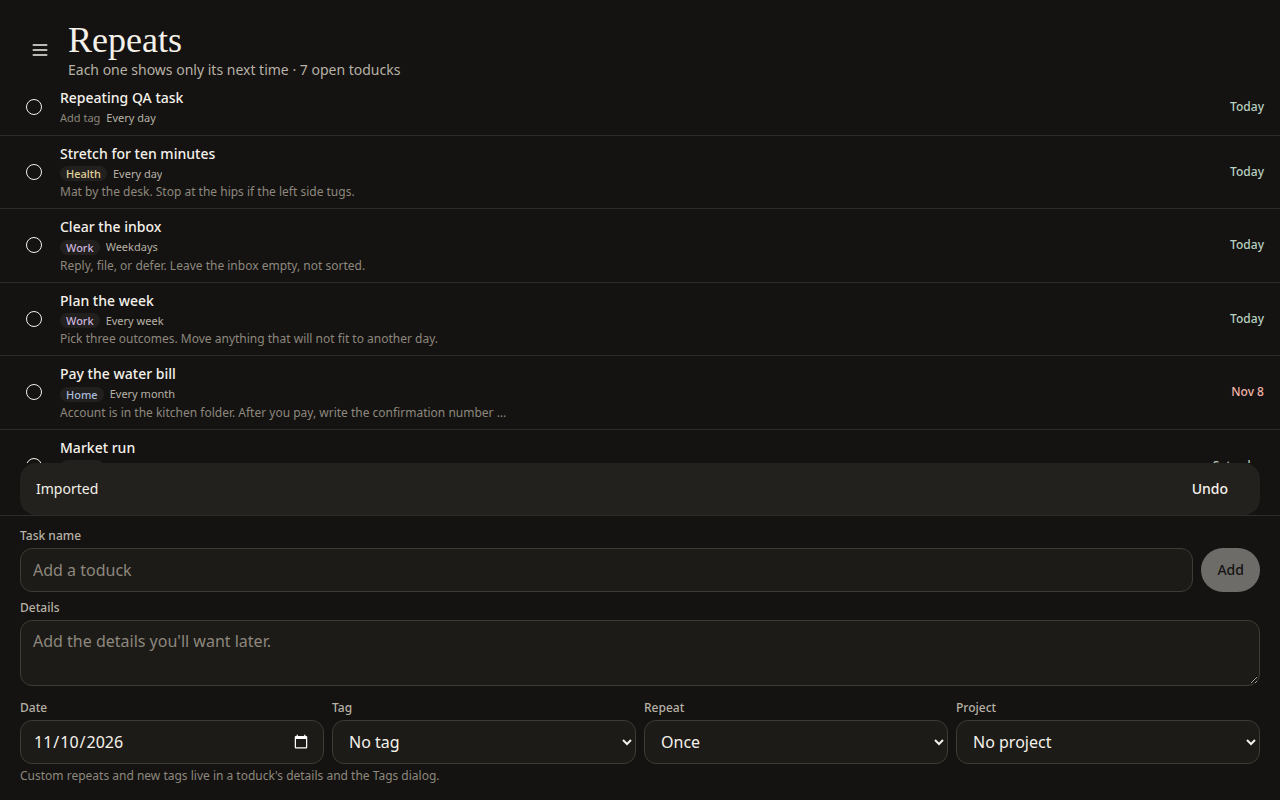
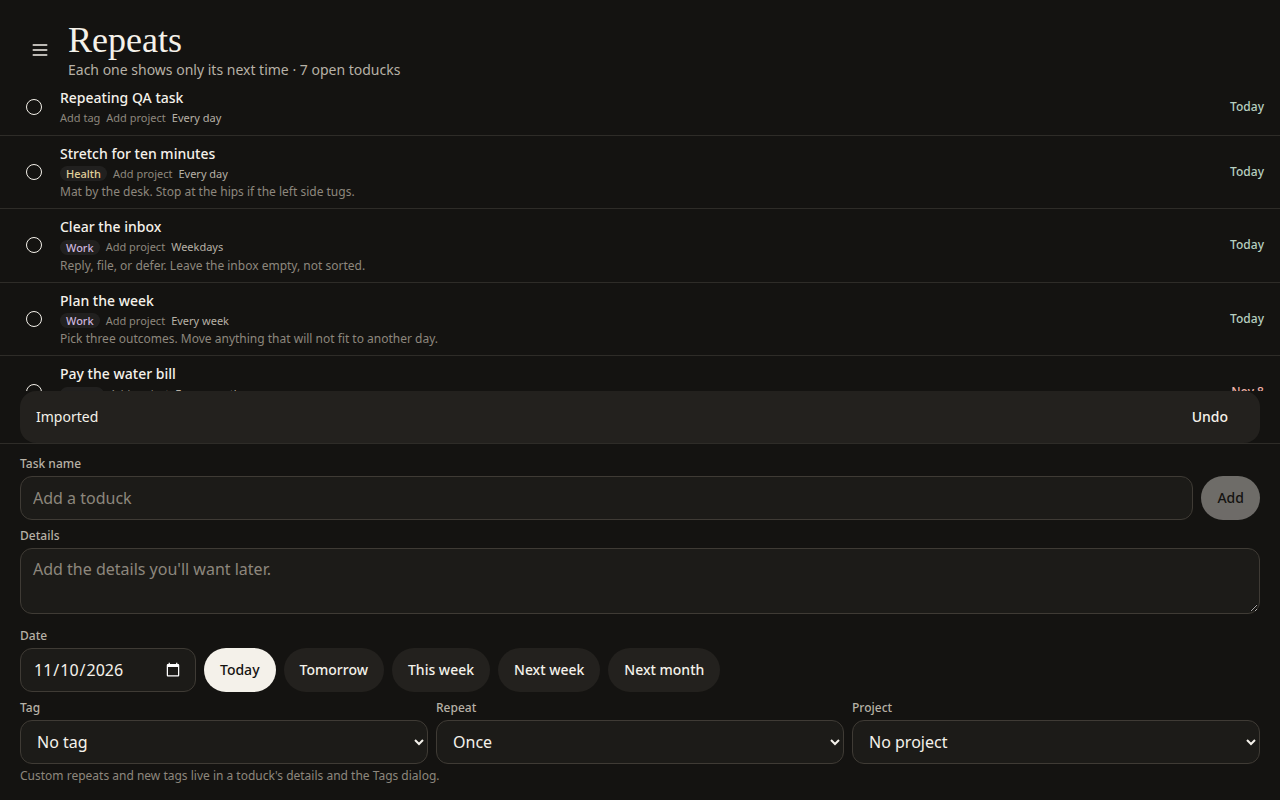
feat(web): quick date presets in the composer; repeat and project editable from the row
The composer date box now sits beside one-tap presets: Today, Tomorrow,
This week (this Sunday), Next week (next Sunday), and Next month (same
day next month, clamped). On a task row, repeat and project join date
and tag as inline controls, so all four can be changed without opening
the task.

diff --git a/src/components/toduck/screen.tsx b/src/components/toduck/screen.tsx
@@ -2,7 +2,7 @@ import { useEffect, useState } from "react";
 import { ChevronLeft, ChevronRight, Menu, Settings, X } from "lucide-react";
 import { Detail } from "@/components/toduck/detail";
 import { CategoriesDialog, ProjectsDialog, SettingsDialog } from "@/components/toduck/settings";
-import { Button, CategoryPicker, Chip, Modal } from "@/components/toduck/ui";
+import { Button, CategoryPicker, Chip, Modal, ProjectPicker, RepeatChooser } from "@/components/toduck/ui";
 import {
   activeCategories,
   activeProjects,
@@ -12,8 +12,10 @@ import {
   categoryName,
   countFor,
   dateHorizon,
+  DATE_PRESETS,
   formatWhen,
   monthDay,
+  presetDate,
   projectName,
   repeatLabel,
   requireDate,
@@ -591,11 +593,14 @@ function TaskRow({
   const toggleTask = useToduck((s) => s.toggleTask);
   const updateTask = useToduck((s) => s.updateTask);
   const addCategory = useToduck((s) => s.addCategory);
+  const addProject = useToduck((s) => s.addProject);
   const allCategories = useToduck((s) => s.categories);
+  const allProjects = useToduck((s) => s.projects);
   const [categoryOpen, setCategoryOpen] = useState(false);
+  const [projectOpen, setProjectOpen] = useState(false);
+  const [repeatOpen, setRepeatOpen] = useState(false);
   const when = requireDate(shownDate(task, today), today);
   const horizon = dateHorizon(when, today);
-  const repeat = task.repeat.kind === "none" ? null : repeatLabel(task.repeat, "short");
 
   return (
     <li className="border-b border-line px-3 md:px-4">
@@ -629,8 +634,28 @@ function TaskRow({
             >
               {category ?? "Add tag"}
             </button>
-            {project ? <span className="truncate text-[11px] text-muted">{project}</span> : null}
-            {repeat ? <span className="truncate text-[11px] text-muted">{repeat}</span> : null}
+            <button
+              type="button"
+              className={project ? "max-w-[8rem] truncate text-[11px] text-muted" : "shrink-0 text-[11px] text-faint"}
+              aria-label={`Change project for ${task.title}`}
+              onClick={(event) => {
+                event.stopPropagation();
+                setProjectOpen(true);
+              }}
+            >
+              {project ?? "Add project"}
+            </button>
+            <button
+              type="button"
+              className="shrink-0 text-[11px] text-muted"
+              aria-label={`Change repeat for ${task.title}`}
+              onClick={(event) => {
+                event.stopPropagation();
+                setRepeatOpen(true);
+              }}
+            >
+              {repeatLabel(task.repeat, "short")}
+            </button>
           </span>
           {!compact && notePreviewSafe(task.notes) ? (
             <span className="mt-0.5 hidden truncate text-xs text-faint md:block">{notePreviewSafe(task.notes)}</span>
@@ -656,6 +681,31 @@ function TaskRow({
           />
         </div>
       </div>
+      {projectOpen ? (
+        <Modal open onOpenChange={setProjectOpen} title="Project" description={task.title}>
+          <ProjectPicker
+            projectId={task.projectId}
+            projects={activeProjects(allProjects)}
+            onChange={(id) => {
+              updateTask(task.id, { projectId: id });
+              setProjectOpen(false);
+            }}
+            onCreate={(name) => {
+              const id = addProject(name);
+              if (id) updateTask(task.id, { projectId: id });
+              setProjectOpen(false);
+            }}
+          />
+        </Modal>
+      ) : null}
+      {repeatOpen ? (
+        <Modal open onOpenChange={setRepeatOpen} title="Repeat" description={task.title}>
+          <RepeatChooser repeat={task.repeat} date={task.date} onChange={(next) => updateTask(task.id, { repeat: next })} />
+          <Button className="mt-3" variant="quiet" onClick={() => setRepeatOpen(false)}>
+            Done
+          </Button>
+        </Modal>
+      ) : null}
       {categoryOpen ? (
         <Modal open onOpenChange={setCategoryOpen} title="Tag" description={task.title}>
           <CategoryPicker
@@ -803,8 +853,8 @@ function Composer({
           placeholder="Add the details you'll want later."
         />
       </div>
-      <div className="mt-2 grid grid-cols-2 gap-2 pb-1 lg:grid-cols-4">
-        <div>
+      <div className="mt-2 flex flex-wrap items-end gap-2">
+        <div className="w-44 shrink-0">
           <label className={labelClass} htmlFor="new-date">
             Date
           </label>
@@ -818,6 +868,18 @@ function Composer({
             }}
           />
         </div>
+        <div className="flex flex-wrap gap-2" role="group" aria-label="Quick dates">
+          {DATE_PRESETS.map((preset) => {
+            const target = presetDate(preset.id, today);
+            return (
+              <Chip key={preset.id} active={date === target} onClick={() => setDate(target)}>
+                {preset.label}
+              </Chip>
+            );
+          })}
+        </div>
+      </div>
+      <div className="mt-2 grid grid-cols-1 gap-2 pb-1 sm:grid-cols-3">
         <div>
           <label className={labelClass} htmlFor="new-tag">
             Tag

diff --git a/e2e/toduck.spec.ts b/e2e/toduck.spec.ts
@@ -218,6 +218,20 @@ test("row controls: one-click date picker, category picker, and repeat checkbox 
   await expect(dialog).toBeHidden();
   await expect(quickRow).toContainText("Home");
 
+  // The repeat can be changed from the row, without opening the details.
+  await quickRow.getByRole("button", { name: "Change repeat for Quick date task" }).click();
+  await dialog.getByRole("button", { name: "Weekdays" }).click();
+  await dialog.getByRole("button", { name: "Done", exact: true }).click();
+  await expect(dialog).toBeHidden();
+  await expect(quickRow).toContainText("Weekdays");
+
+  // A project can be created and assigned from the row too.
+  await quickRow.getByRole("button", { name: "Change project for Quick date task" }).click();
+  await dialog.getByLabel("New project").fill("Row Project");
+  await dialog.getByRole("button", { name: "Add", exact: true }).click();
+  await expect(dialog).toBeHidden();
+  await expect(quickRow).toContainText("Row Project");
+
   // Checking off a repeating task moves it to its next date; it is not "done".
   await page.getByLabel("New toduck").fill("Daily quick task");
   await page.getByLabel("Repeat", { exact: true }).selectOption("daily");
@@ -229,6 +243,26 @@ test("row controls: one-click date picker, category picker, and repeat checkbox 
   await expect(dailyRow.getByLabel(/Change date for Daily quick task/)).toHaveValue(tomorrow);
   await clickNav(page, /^Done/);
   await expect(page.getByText("Daily quick task", { exact: true })).toHaveCount(0);
+});
+
+test("composer quick dates set the new toduck's date", async ({ page }) => {
+  const key = (date: Date) => {
+    const y = date.getFullYear();
+    const m = String(date.getMonth() + 1).padStart(2, "0");
+    const d = String(date.getDate()).padStart(2, "0");
+    return `${y}-${m}-${d}`;
+  };
+  // Weeks start on Monday; "Next week" lands on next Sunday.
+  const now = new Date();
+  const monday = new Date(now.getFullYear(), now.getMonth(), now.getDate() - (now.getDay() === 0 ? 6 : now.getDay() - 1));
+  const nextSunday = key(new Date(monday.getFullYear(), monday.getMonth(), monday.getDate() + 13));
+
+  await page.getByLabel("New toduck").fill("Preset date task");
+  await page.getByRole("button", { name: "Next week", exact: true }).click();
+  await page.getByRole("button", { name: "Add", exact: true }).click();
+  const row = page.getByRole("listitem").filter({ hasText: "Preset date task" });
+  await expect(row).toBeVisible();
+  await expect(row.getByLabel(/Change date for Preset date task/)).toHaveValue(nextSunday);
 });
 
 test("self-host server serves a page whose inline scripts run", async ({ page }, testInfo) => {

diff --git a/src/lib/toduck/model.ts b/src/lib/toduck/model.ts
@@ -194,6 +194,41 @@ export function requireDate(date: string | null | undefined, fallback: string): 
   return typeof date === "string" && /^\d{4}-\d{2}-\d{2}$/.test(date) ? date : fallback;
 }
 
+export type DatePreset = "today" | "tomorrow" | "this-week" | "next-week" | "next-month";
+
+export const DATE_PRESETS: { id: DatePreset; label: string }[] = [
+  { id: "today", label: "Today" },
+  { id: "tomorrow", label: "Tomorrow" },
+  { id: "this-week", label: "This week" },
+  { id: "next-week", label: "Next week" },
+  { id: "next-month", label: "Next month" },
+];
+
+/**
+ * The date a quick preset lands on. Weeks start on Monday (as in
+ * startOfWeek): "this week" is this Sunday, "next week" is next Sunday,
+ * and "next month" is the same day next month, clamped to its last day.
+ */
+export function presetDate(preset: DatePreset, today: string): string {
+  switch (preset) {
+    case "today":
+      return today;
+    case "tomorrow":
+      return addDays(today, 1);
+    case "this-week":
+      return addDays(startOfWeek(today), 6);
+    case "next-week":
+      return addDays(startOfWeek(today), 13);
+    case "next-month": {
+      const start = parseKey(today);
+      const target = new Date(start.getFullYear(), start.getMonth() + 1, 1, 12);
+      const lastDay = new Date(target.getFullYear(), target.getMonth() + 1, 0).getDate();
+      target.setDate(Math.min(start.getDate(), lastDay));
+      return toKey(target);
+    }
+  }
+}
+
 export function upcomingWeekend(today: string): string {
   const day = parseKey(today).getDay();
   if (day === 0 || day === 6) return today;

diff --git a/src/lib/toduck/model.test.ts b/src/lib/toduck/model.test.ts
@@ -8,6 +8,7 @@ import {
   makeSeed,
   newId,
   nextOccurrence,
+  presetDate,
   shownDate,
   visibleTasks,
   workflowColumnFor,
@@ -37,6 +38,22 @@ describe("newId", () => {
     assert.equal(typeof newId({}), "string");
     assert.ok(newId({}).length > 0);
     assert.notEqual(newId(undefined) ?? "", "");
+  });
+});
+
+describe("date presets", () => {
+  it("lands each quick preset on its named date", () => {
+    // Tuesday 2026-11-10; weeks start on Monday.
+    assert.equal(presetDate("today", "2026-11-10"), "2026-11-10");
+    assert.equal(presetDate("tomorrow", "2026-11-10"), "2026-11-11");
+    assert.equal(presetDate("this-week", "2026-11-10"), "2026-11-15");
+    assert.equal(presetDate("next-week", "2026-11-10"), "2026-11-22");
+    assert.equal(presetDate("next-month", "2026-11-10"), "2026-12-10");
+  });
+
+  it("clamps next month to the target month's last day", () => {
+    assert.equal(presetDate("next-month", "2026-01-31"), "2026-02-28");
+    assert.equal(presetDate("next-month", "2026-12-15"), "2027-01-15");
   });
 });
 
